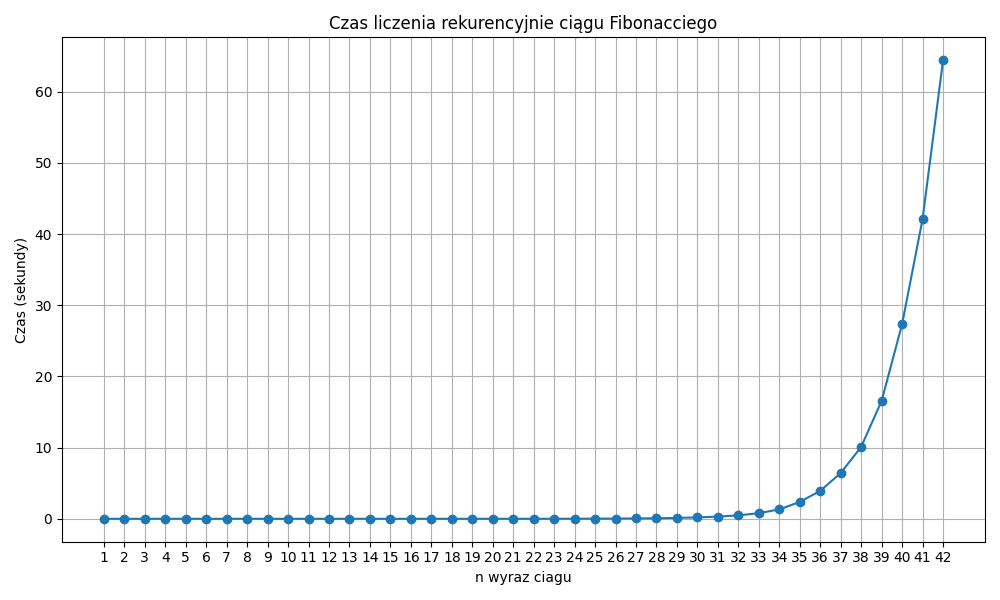
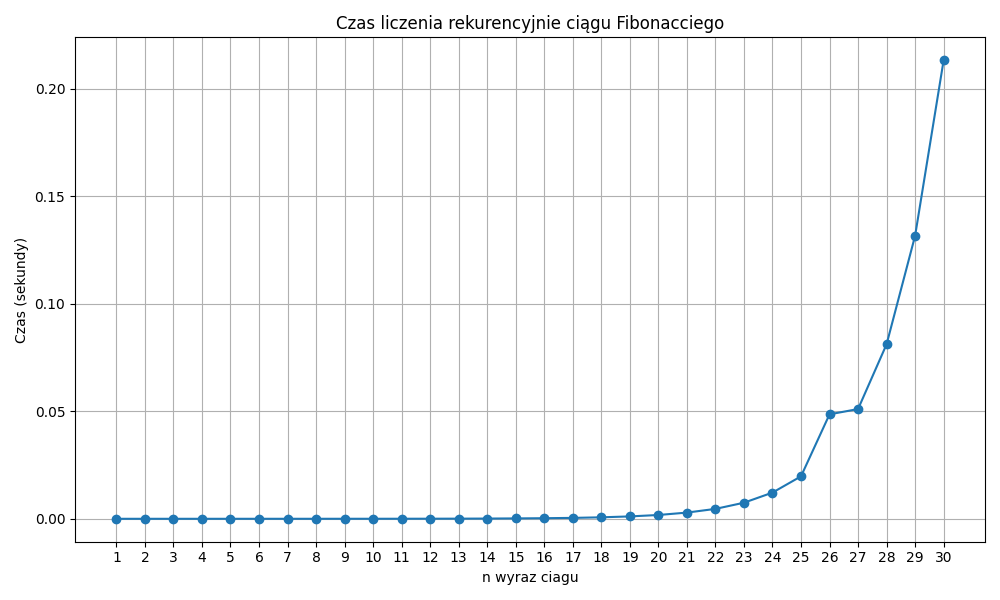
projekt1

diff --git a/projekt1/helpers/ciekawostki.py b/projekt1/helpers/ciekawostki.py
@@ -1,0 +1,142 @@
+import time
+import matplotlib.pyplot as plt
+import matplotlib.ticker as ticker
+
+def fibonacci(n):
+    if n == 0:
+        return 0
+    if n == 1:
+        return 1
+    else:
+        return fibonacci(n-1) + fibonacci(n-2)
+    
+def fibonacci_iter(n):
+    if n == 0:
+        return 0
+    elif n == 1:
+        return 1
+    else:
+        fib = [0, 1]
+        for i in range(2, n + 1):
+            fib.append(fib[i-1] + fib[i-2])
+        return fib[n]
+
+def plot_fibonacci_times(od, do):
+    wartosci_n = []
+    czasy = []
+    for n in range(od, do + 1):
+        start_time = time.time()
+        result = fibonacci(n)
+        end_time = time.time()
+        czas_obliczen = end_time - start_time
+        wartosci_n.append(n)
+        czasy.append(czas_obliczen)
+        print("Fibonacci od", n, ":", result)
+        print("Czas:", czas_obliczen, "s")
+        print()
+
+    plt.figure(figsize=(10, 6))
+    plt.plot(wartosci_n, czasy, marker='o', linestyle='-')
+    plt.title('Czas liczenia rekurencyjnie ciągu Fibonacciego')
+    plt.xlabel('n wyraz ciagu')
+    plt.ylabel('Czas (sekundy)')
+    plt.grid(True)
+    plt.xticks(range(od, do + 1))
+    plt.tight_layout()
+    plt.savefig("plot.png")
+
+def plot_fibonacci_iterative(od, do):
+    wartosci_n = []
+    czasy = []
+    for n in range(od, do + 1):
+        start_time = time.time()
+        result = fibonacci_iter(n)
+        end_time = time.time()
+        czas_obliczen = end_time - start_time
+        wartosci_n.append(n)
+        czasy.append(czas_obliczen)
+        print("Fibonacci od", n, ":", result)
+        print("Czas:", czas_obliczen, "s")
+        print()
+
+    plt.figure(figsize=(10, 6))
+    plt.plot(wartosci_n, czasy, marker='o', linestyle='-')
+    plt.title('Czas liczenia iteracyjnie ciągu Fibonacciego')
+    plt.xlabel('n-ty wyraz ciągu')
+    plt.ylabel('Czas (sekundy)')
+    plt.grid(True)
+    plt.xticks(range(od, do, 100))
+    plt.gca().yaxis.set_major_formatter(ticker.FormatStrFormatter('%.5f'))
+    plt.tight_layout()
+    plt.savefig("plot_iterative.png")
+
+
+def calculate_time(POTEZNA_LICZBA):
+    time = 466.0715682507
+    ratio = 1.618033988749
+    n = 46
+
+    while True:
+        time *= ratio
+        n += 1
+        if n >= POTEZNA_LICZBA:
+            break
+
+    print("Po {} wykonaniach czas wynosi {:.0f} sekund.".format(POTEZNA_LICZBA - 46, time))
+
+    minutes_per_second = 1 / 60
+    hours_per_second = minutes_per_second / 60
+    days_per_second = hours_per_second / 24
+    years_per_second = days_per_second / 365.25 # a co tam, policzymy z latami przestępnymi 
+
+    time_in_minutes = time * minutes_per_second
+    time_in_hours = time * hours_per_second
+    time_in_days = time * days_per_second
+    time_in_years = time * years_per_second
+
+    print("Czas w minutach:", '{:.0f}'.format(time_in_minutes))
+    print("Czas w godzinach:", '{:.0f}'.format(time_in_hours))
+    print("Czas w dniach:", '{:.0f}'.format(time_in_days))
+    print("Czas w latach:", '{:.0f}'.format(time_in_years))
+
+    print("Ile wszechświatów by zajęło liczenie: " + str(int(time_in_years / 13_787_000_000)))
+
+def calculate_avg():
+    times = [
+        0.0000007153, 0.0000009537, 0.0000009537, 0.0000007153, 0.0000009537,
+        0.0000030994, 0.0000028610, 0.0000042915, 0.0000069141, 0.0000112057,
+        0.0000181200, 0.0000288486, 0.0000441074, 0.0000724792, 0.0001153946,
+        0.0002038479, 0.0003063679, 0.0005016327, 0.0007898807, 0.0012705326,
+        0.0020649433, 0.0033750534, 0.0054795742, 0.0088250637, 0.0145370960,
+        0.0236260891, 0.0381035805, 0.0617091656, 0.0998525619, 0.1628260612,
+        0.2572720051, 0.4154846668, 0.7016372681, 1.3900573254, 2.4276556969,
+        3.9783451557, 6.3765065670, 10.1886794567, 16.3728692532, 26.5859353542,
+        42.4968469143, 64.1382308006, 112.1614754200, 175.1904096603, 292.0188045502,
+        466.0715682507
+    ]
+
+
+
+
+
+    ratios = [times[i] / times[i-1] for i in range(1, len(times))]
+    sorted_ratios = sorted(ratios)
+
+
+    average = sum(ratios) / len(ratios)
+
+    print("Średnia:", average)
+    n = len(sorted_ratios)
+    if n % 2 == 0:
+        median = (sorted_ratios[n//2 - 1] + sorted_ratios[n//2]) / 2
+    else:
+        median = sorted_ratios[n//2]
+
+    print("Mediana: ", median)
+
+# plot_fibonacci_times(1, 30)
+# plot_fibonacci_iterative(1, 476)
+calculate_time(476)
+calculate_avg()
+
+# print(341301280657442590686492882549513967819153224652743659108293029741489293429064219215897034752/5.173683166503906e-05) // 6.5968724731181295e+96

diff --git a/projekt1/silnaLiczba.go b/projekt1/silnaLiczba.go
@@ -65,3 +65,6 @@ func main() {
 	fmt.Println("Silnia Twojej Silnej Liczby została zapisana w pliku silnia.txt")
 
 }
+// Silna liczba dla "dawkal" to 476
+//[100, 97, 119, 107, 97, 108] - kody ASCII mojego nicku
+// 476! = 35867867064398478289209288875534387019028416258811836097155671133214919145444260935805432100557203526635297136372252064698892609981421602639632038857887829475680340687505785927330492899589147639440355071247941210396418976790496116638139844315723889910751888763214906402206414338520669922794130323497648626571442758115898723512911338574508975674744299325488079349804387736838497922290989218810430929600444317990195672429289253146597780504680119710765307542463279546249869881122681659239945050603874329534230560986949687181508415056078842404709174342374251031568128240156579745710039907957665407214016795792446584465884461641692036758184309865915561118301965962774560047028427934154513836663823856366754722964717185684148702128819913812101327095717508673881082348629325961023547740711742985105209962397132625285663757717550333733499916097970929256584070049965155727074714934204283094829846721551122905670975430021850311566169589525408067135863332586651648000000000000000000000000000000000000000000000000000000000000000000000000000000000000000000000000000000000000000000000

diff --git a/projekt1/helpers/acker.py b/projekt1/helpers/acker.py
@@ -1,0 +1,15 @@
+import sys
+
+sys.setrecursionlimit(10000)
+
+
+def ackermann(m, n):
+    if m == 0:
+        return n + 1
+    elif m > 0 and n == 0:
+        return ackermann(m - 1, 1)
+    elif m > 0 and n > 0:
+        return ackermann(m - 1, ackermann(m, n - 1))
+
+print(ackermann(4, 1))
+

diff --git a/projekt1/slabaLiczba.go b/projekt1/slabaLiczba.go
@@ -55,4 +55,4 @@ func main() {
     }
 
     fmt.Printf("Najbliższa liczba Twojej Silnej Liczbie to %d, czyli Twoja Słaba Liczba to %d.\n", counters[closest_index], closest_index)
-}
+}// moja słaba liczba to 17

diff --git a/projekt1/opracowanie.md b/projekt1/opracowanie.md
@@ -1,0 +1,143 @@
+# Silne i Słabe liczby w języku GO
+## Wstęp.
+Kody ASCII mojego nicku to [100, 97, 119, 107, 97, 108]
+Chcąc dowiedzieć się, jaka jest Moja Silna Liczba, założyłem, że wszystkie kody muszą wystąpić w tej samej kolejności, jak w imieniu, czyli najpierw 100(d), dopiero potem 97 (a), itd. Znalazłem `476`, bo to pierwsza liczba, której silnia spełnia założenia.
+
+
+35867867064398478289209288875534387019028416258811836097155671133214919145444260935805432``100``5572035266352``97``136372252064698892609981421602639632038857887829475680340687505785927330492899589147639440355071247941210396418976790496116638139844315723889910751888763214906402206414338520669922794130323497648626571442758115898723512911338574508975674744299325488079349804387736838497922290989218810430929600444317990195672429289253146597780504680``119``7``107``6530754246327954624986988112268165923994505060387432953423056098694968718150841505607884240470917434237425103156812824015657``97``4571003990795766540721401679579244658446588446164169203675818430986591556111830196596277456004702842793415451383666382385636675472296471718568414870212881991381210132709571750867388``108``2348629325961023547740711742985105209962397132625285663757717550333733499916097970929256584070049965155727074714934204283094829846721551122905670975430021850311566169589525408067135863332586651648000000000000000000000000000000000000000000000000000000000000000000000000000000000000000000000000000000000000000000000  
+  
+Moja słaba liczba, to z kolei `17`.  
+  
+W trakcie zajmowania się problemem zauważyłem kilka ciekawostek...
+
+## Rozdział I. Liczba wywołań funkcji
+
+**Fakty**:  
+30\. element ciągu Fibonacciego wynosi `832040`.  
+Liczba wywołań funkcji dla `n=1` wynosi tyle, ile wartość ciągu dla `n` podanego na początku, co wynika oczywiście wprost z samej definicji ciągu Fibonacciego.  
+  
+  **Ale co ciekawe**, ilość wywołań funkcji dla `n=2` jest równa `29.` elementowi ciągu Fibonacciego, dla `n=3` jest równa `28.`, itd. Dochodzimy do wniosku, że dla rekurencyjnej funkcji `Fibonacci(pn)`, gdzie `pn` to nasze `początkowe n`, **Liczba wywołań funkcji Fibonacciego dla każdego n wynosi `Fib(pn - n + 1)`.**
+Czyli, mówiąc po ludzku, ilość wywołań funkcji Fibonacciego po kolei każdego `n` od tyłu tworzy ciąg Fibonacciego.
+    
+Być może jest to oczywiste, ale ja osobiście odkryłem tę zależność dopiero, jak program zliczył mi ręcznie wszystkie wywołania funkcji dla wszystkich `n`.
+
+
+### Tabelka:
+| n | Liczba wywołań funkcji F(n)  |
+|------------------|---------|
+| 0                | 514229  |
+| 1                | 832040  |
+| 2                | 514229  |
+| 3                | 317811  |
+| 4                | 196418  |
+| 5                | 121393  |
+| 6                | 75025   |
+| 7                | 46368   |
+| 8                | 28657   |
+| 9                | 17711   |
+| 10               | 10946   |
+| 11               | 6765    |
+| 12               | 4181    |
+| 13               | 2584    |
+| 14               | 1597    |
+| 15               | 987     |
+| 16               | 610     |
+| 17               | 377     |
+| 18               | 233     |
+| 19               | 144     |
+| 20               | 89      |
+| 21               | 55      |
+| 22               | 34      |
+| 23               | 21      |
+| 24               | 13      |
+| 25               | 8       |
+| 26               | 5       |
+| 27               | 3       |
+| 28               | 2       |
+| 29               | 1       |
+| 30               | 1       |
+
+## Rozdział II. Złoty podział
+
+Kolejna rzecz,  
+Zastanawiało mnie, o ile się zwiększa ilość wykonań funkcji z każdym kolejnym `n`, i jak zacząłem dzielić przez siebie ilość wykonań funkcji (czyli dzieliłem `n`-ty element ciągu Fibonacciego przez `n-1` element ciągu), to zauważyłem, że **ta proporcja BARDZO SZYBKO** (tzn już dla pierwszych elementów) **zaczyna przypominać stałą** i wynosi **~1.618** czyli jest **ZŁOTĄ LICZBĄ!**. Zamiast rekurencji, oczywiście warto liczyć iteracyjnie, ale alternatywą dla otrzymywania kolejnych elementów ciągu Fibonacciego może być mnożenie kolejnych elementów przez przybliżenie złotej liczby, oraz zaokrąglenie w dół do cyfry jedności.
+
+## Rozdział III. Czas działania też??? 😵
+Sugerując się treścią zadania, postanowiłem zmierzyć czas liczenia rekurencyjnie funkcji Fibonacciego dla różnych `n`. Oczywiście, funkcja rośnie wykładniczo, ale co ciekawe, jeżeli podzielimy czas działania dla elementu `n` przez czas działania dla `n-1`, znowu, bardzo szybko ta proporcja zmierza do **złotej liczby**.  
+
+![Wykres](plot.png)
+
+
+
+| n   | Czas liczenia (s)| Stosunek czasu do poprzedniego |
+|-----|--------------|--------------------------------|
+| 1   | 0.0000007153 |                                |
+| 2   | 0.0000009537 | 1.33329                        |
+| 3   | 0.0000009537 | 1.0                            |
+| 4   | 0.0000007153 | 0.75003                        |
+| 5   | 0.0000009537 | 1.33329                        |
+| 6   | 0.0000030994 | 3.24987                        |
+| 7   | 0.0000028610 | 0.92308                        |
+| 8   | 0.0000042915 | 1.5                            |
+| 9   | 0.0000069141 | 1.61111                        |
+| 10  | 0.0000112057 | 1.6207                         |
+| 11  | 0.0000181200 | 1.61703                        |
+| 12  | 0.0000288486 | 1.59209                        |
+| 13  | 0.0000441074 | 1.52893                        |
+| 14  | 0.0000724792 | 1.64324                        |
+| 15  | 0.0001153946 | 1.59211                        |
+| 16  | 0.0002038479 | 1.76653                        |
+| 17  | 0.0003063679 | 1.50292                        |
+| 18  | 0.0005016327 | 1.63735                        |
+| 19  | 0.0007898807 | 1.57462                        |
+| 20  | 0.0012705326 | 1.60851                        |
+| 21  | 0.0020649433 | 1.62526                        |
+| 22  | 0.0033750534 | 1.63445                        |
+| 23  | 0.0054795742 | 1.62355                        |
+| 24  | 0.0088250637 | 1.61054                        |
+| 25  | 0.0145370960 | 1.64725                        |
+| 26  | 0.0236260891 | 1.62523                        |
+| 27  | 0.0381035805 | 1.61278                        |
+| 28  | 0.0617091656 | 1.61951                        |
+| 29  | 0.0998525619 | 1.61812                        |
+| 30  | 0.1628260612 | 1.63066                        |
+| 31  | 0.2572720051 | 1.58004                        |
+| 32  | 0.4154846668 | 1.61496                        |
+| 33  | 0.7016372681 | 1.68872                        |
+| 34  | 1.3900573254 | 1.98116                        |
+| 35  | 2.4276556969 | 1.74644                        |
+| 36  | 3.9783451557 | 1.63876                        |
+| 37  | 6.3765065670 | 1.6028                         |
+| 38  | 10.1886794567| 1.59785                        |
+| 39  | 16.3728692532| 1.60697                        |
+| 40  | 26.5859353542| 1.62378                        |
+| 41  | 42.4968469143| 1.59847                        |
+| 42  | 64.1382308006| 1.50925                        |
+| 43  | 112.1614754200| 1.74875                        |
+| 44  | 175.1904096603| 1.56195                        |
+| 45  | 292.0188045502| 1.66687                        |
+| 46  | 466.0715682507| 1.59603                        |
+
+### Średni przyrost czasu: 1.5998855020597558
+### Mediana przyrostów czasu:  1.6127756201511996
+
+Na tej podstawie można łatwo policzyć, ile zajęłoby liczenie Mojej Silnej Liczby - ``476``- elementu ciągu Fibonacciego.
+Mnożymy 466.0715682507 * 1.618033988749, łącznie wykonujemy tę czynność 430 razy, aby otrzymać czas liczenia rekurencyjnie dla ``476``.  
+Wynosi on 3.413e+68 sekund, czyli...:
+
+## Rozdział IV. Kosmicznie Wielkie Liczby 🚀
+### 10815184952513580668197183636138704879232346890464417356557980247600139694918418300928
+lat.
+
+
+
+Zakładając, że wszechświat istnieje
+[13.787 mld lat](https://en.wikipedia.org/wiki/Age_of_the_universe),
+liczenie zajęłoby 784448027309318999217533120835415838030308472049079687916741034972127690752 wszechświatów.
+
+A ja myślałem, że jak zostawię komputer na noc, to rano będzie już policzone...
+
+Jak dobrze, że ludzkość nie używa rekurencji na codzień... Dla zestawienia, wykres liczenia "po ludzku", "normalnie", "tak, jak przystało na przyzwoitych ludzi":
+![Wykres](plot_iterative.png)
+
+A, i Fibonacci od Mojej Silnej Liczby iteracyjnie liczy się 6.5968e+96 razy szybciej niż rekurencyjnie
